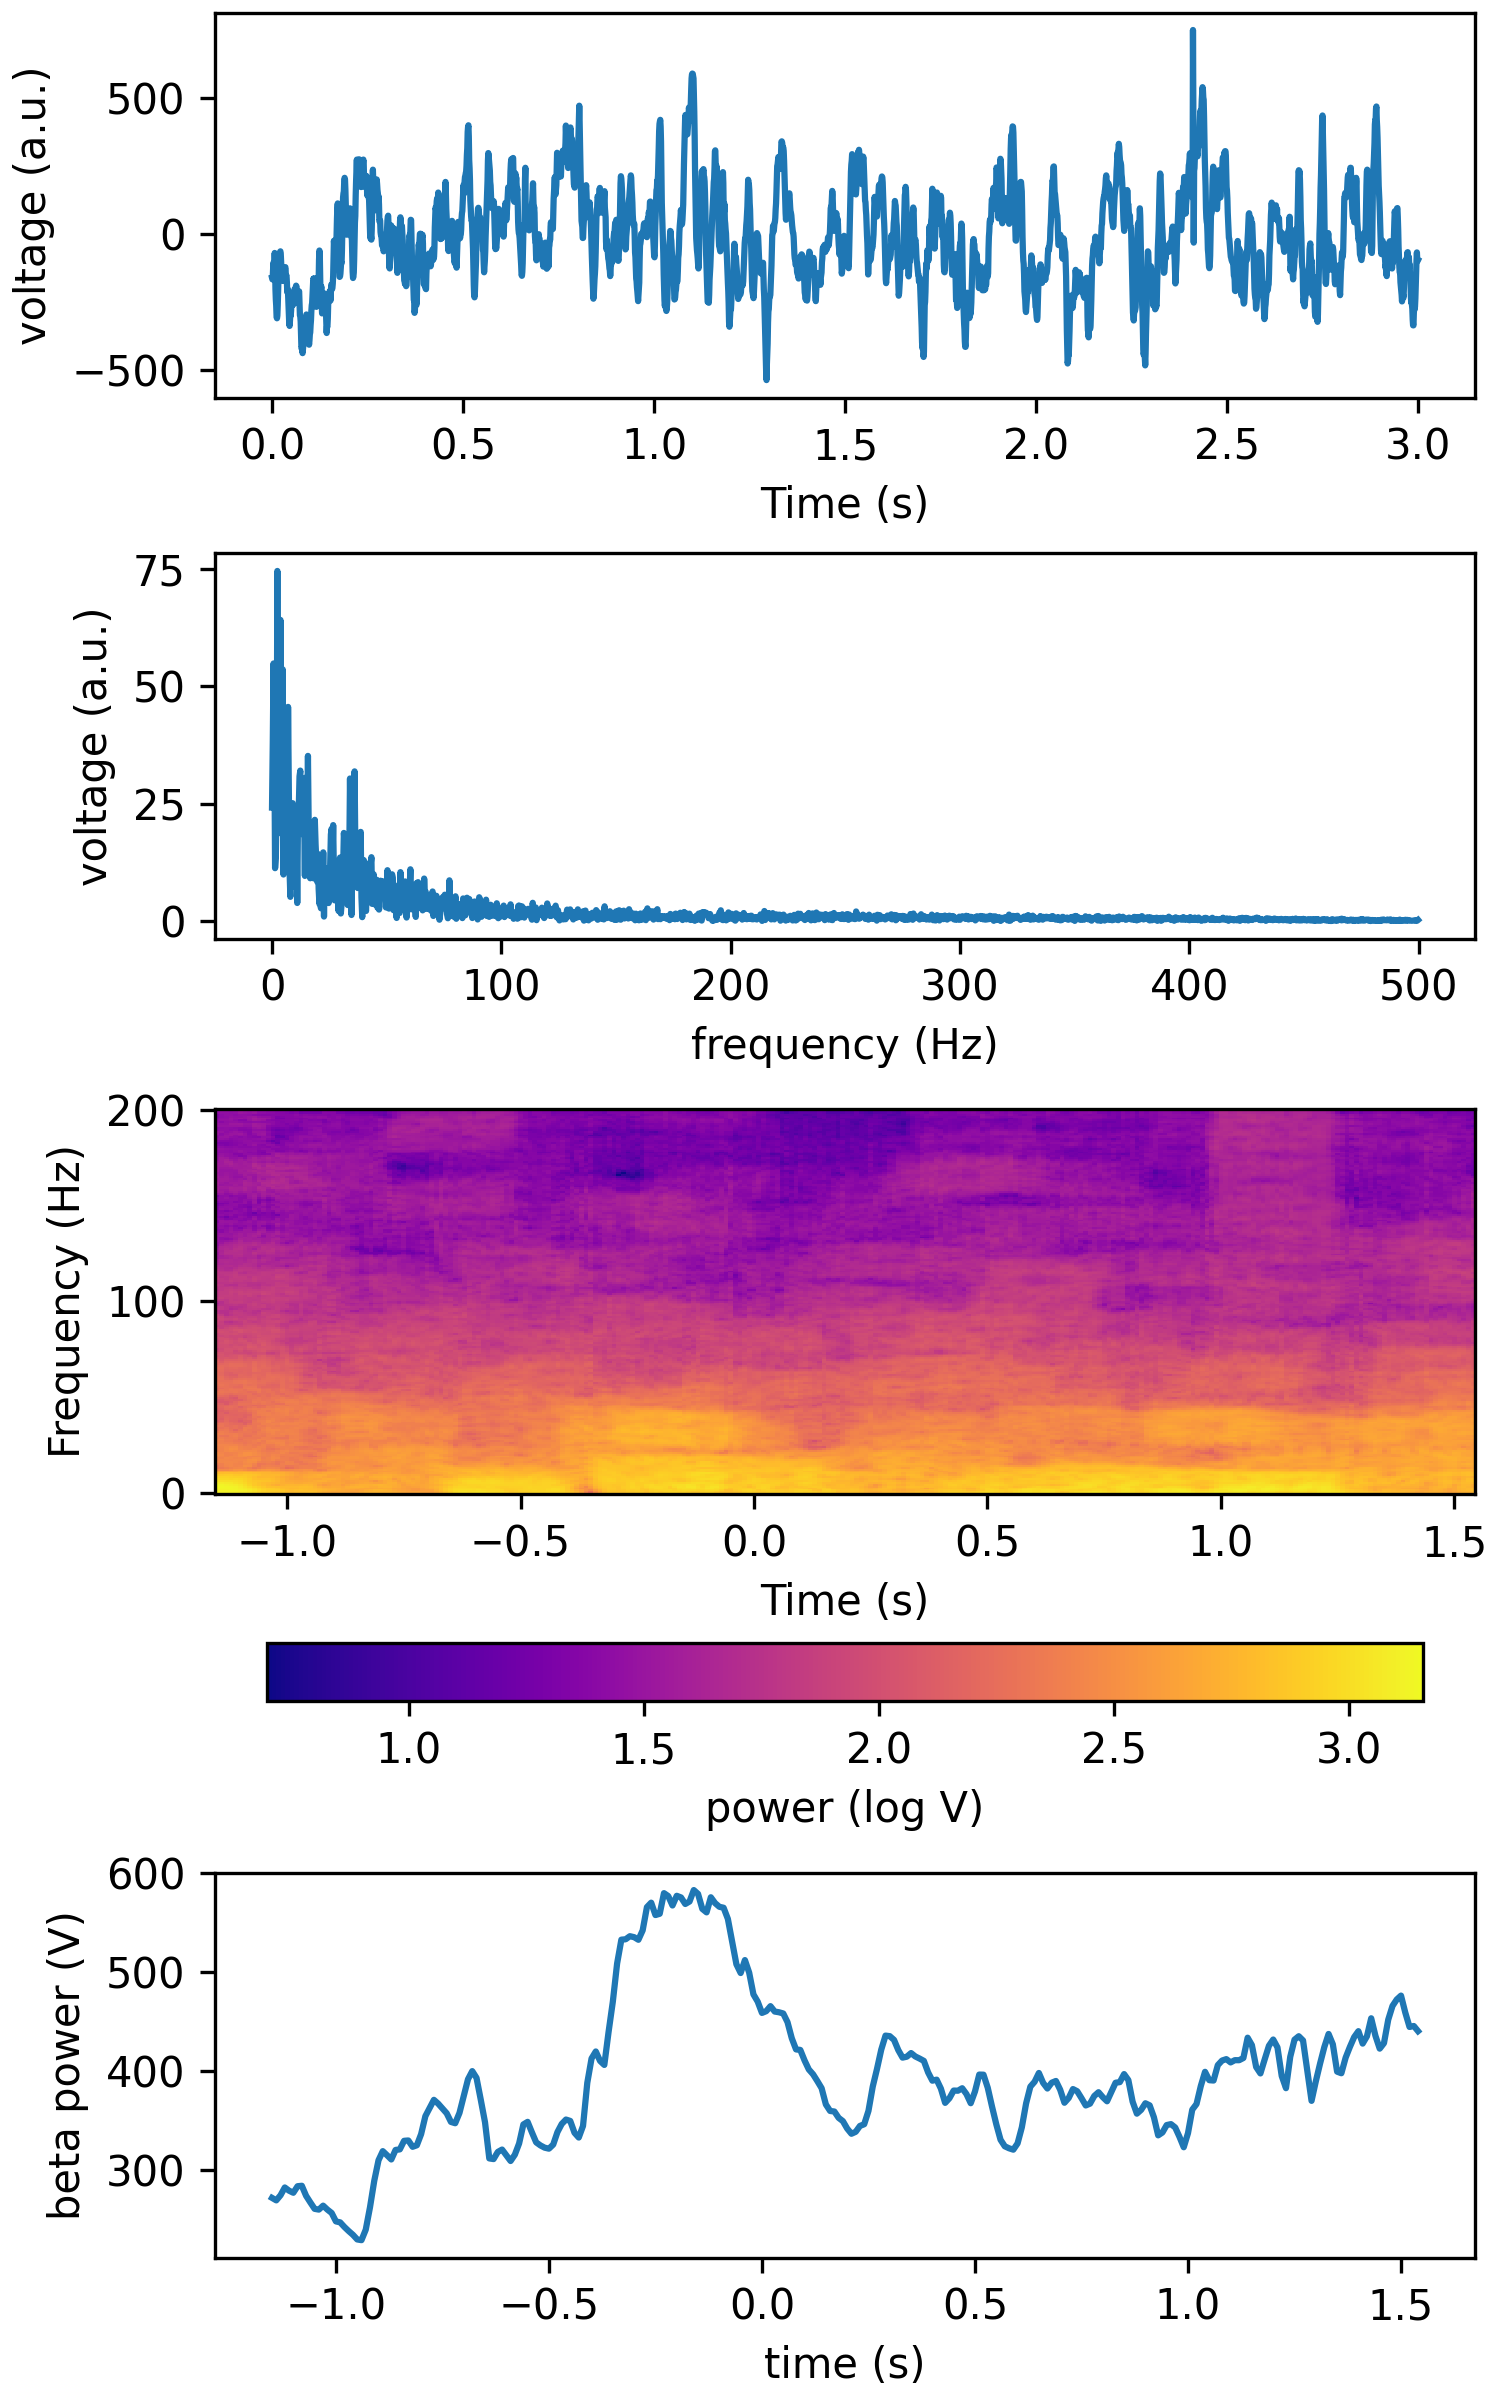
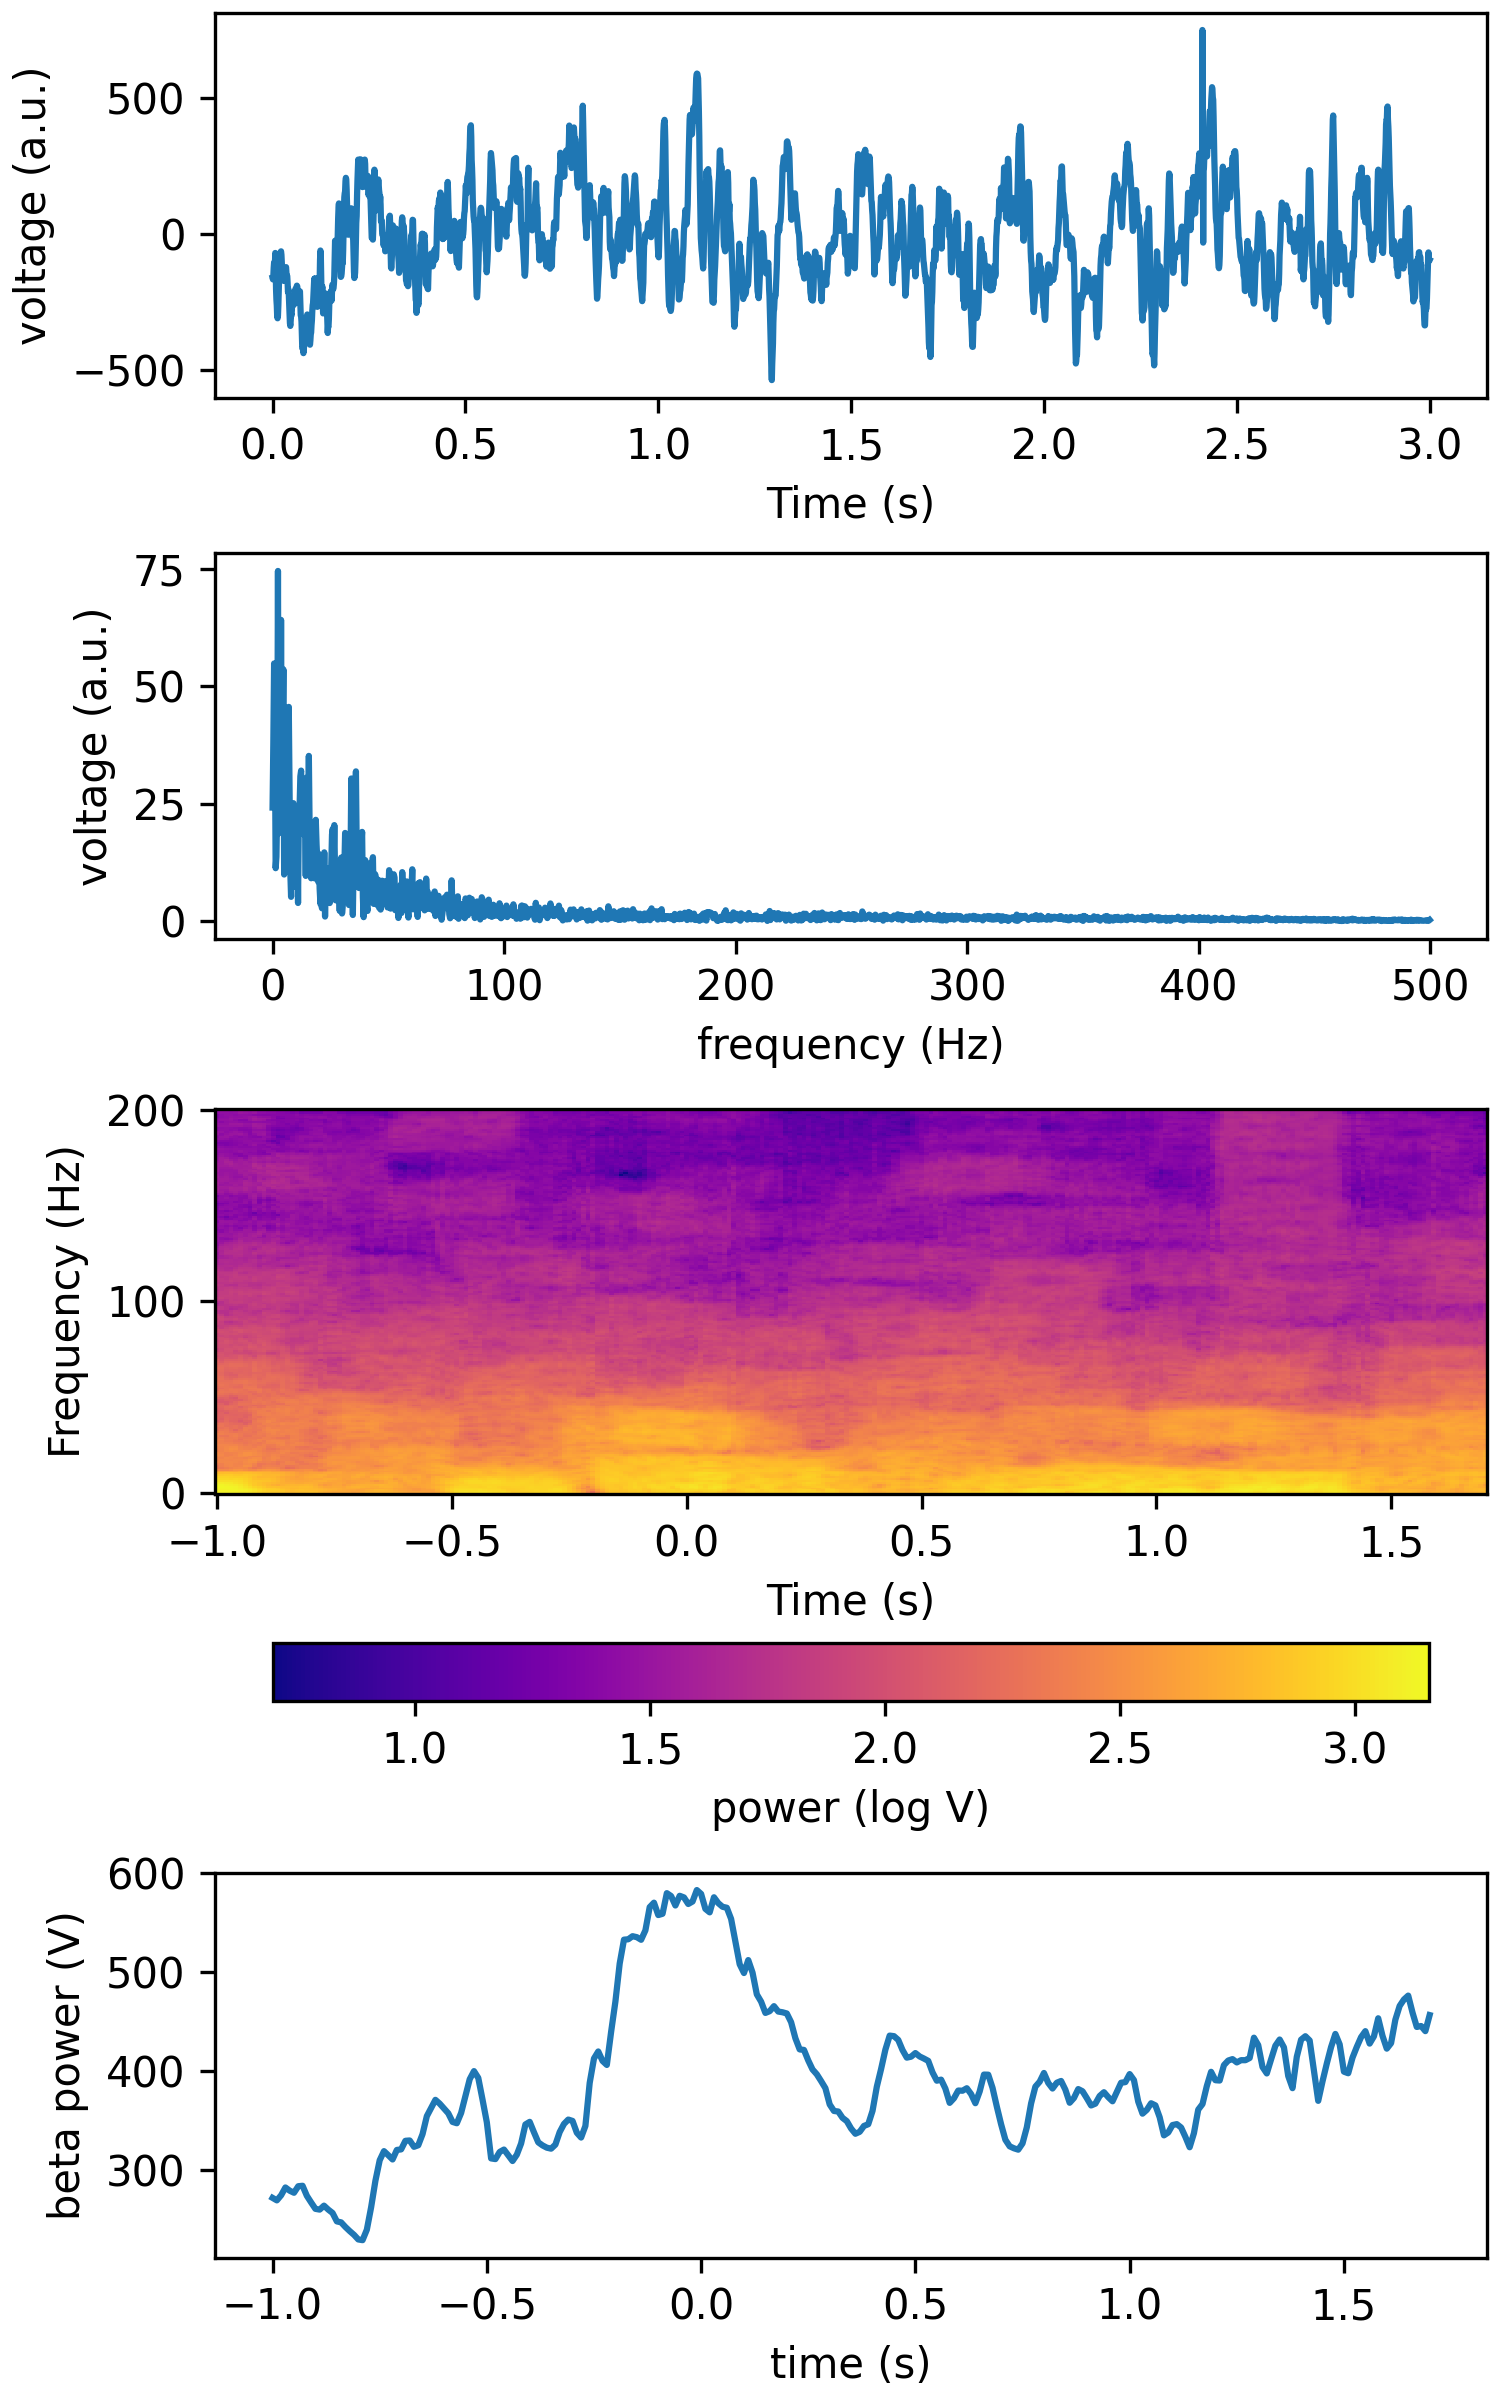
alignment fixes

diff --git a/tests/test_analysis.py b/tests/test_analysis.py
@@ -971,6 +971,38 @@ class HelperFunctions:
         ax[3].set_xlabel('time (s)')
         ax[3].set_ylabel('beta power (V)')
 
+    def test_tfr_alignment(tfr_fun):
+        '''
+        Tests TFR functions. Input a TFR function with the following signature:
+        tfr_fun(ts_data, samplerate) -> (frequency, time, spectrogram)
+        '''
+        fig, ax = plt.subplots(2,1,figsize=(5,8), layout='compressed')
+
+        # Make some test data with change at t=0
+        T = 5
+        fs = 1000
+        num_points = int(T*fs)
+        t = np.linspace(0,T,num_points)
+        erp = np.zeros((t.shape[0],))
+        erp = 1.5*np.sin(2*np.pi*100*t) # 100 Hz sine
+        time_before = T/2
+        erp[t>=time_before] = 2*np.sin(2*np.pi*50*t[t>=time_before]) # 50 Hz sine
+
+        # Plot time domain
+        aopy.visualization.plot_timeseries(erp, fs, ax=ax[0])
+        ax[0].set_ylabel('voltage (a.u.)')
+
+        # Compute and time spectrogram
+        t0 = time.perf_counter()
+        freqs, times, coef = tfr_fun(erp, fs)
+        dur = time.perf_counter() - t0
+
+        print(f"{repr(tfr_fun)} took {dur:.3f} seconds")
+
+        # Plot spectrogram
+        pcm = aopy.visualization.plot_tfr(abs(coef[:,:,0]), times - time_before, freqs, 'plasma', ax=ax[1])
+        fig.colorbar(pcm, label='power (log V)', orientation='horizontal', ax=ax[1])
+
 class SpectrumTests(unittest.TestCase):
 
     def setUp(self):
@@ -1064,6 +1096,21 @@ class SpectrumTests(unittest.TestCase):
         tfr_fun = lambda data, fs: aopy.analysis.calc_mt_tfr(data, n, p, k, fs, step=step, fk=fk, pad=2, ref=False, dtype='int16')
         HelperFunctions.test_tfr_lfp(tfr_fun)
         filename = 'tfr_mt_lfp.png'
+        savefig(docs_dir,filename)
+
+        # Test two alignments
+        tfr_fun = lambda data, fs: aopy.analysis.calc_mt_tfr(data, n, p, k, fs, step=step, fk=fk, pad=2, ref=False, dtype='int16')
+        HelperFunctions.test_tfr_alignment(tfr_fun)
+        plt.title('Align center')
+        filename = 'tfr_mt_alignment_center.png'
+        savefig(docs_dir,filename)
+
+        def tfr_fun(data, fs):
+            freqs, time, spec = aopy.analysis.calc_mt_tfr(data, n, p, k, fs, step=step, fk=fk, pad=2, ref=False, dtype='int16')
+            return freqs, time+n/2, spec
+        HelperFunctions.test_tfr_alignment(tfr_fun)
+        plt.title('Align right (plus n/2)')
+        filename = 'tfr_mt_alignment_right.png'
         savefig(docs_dir,filename)
 
     def test_tfr_mt_tsa(self):

diff --git a/aopy/analysis/base.py b/aopy/analysis/base.py
@@ -960,7 +960,7 @@ def calc_mt_tfr(ts_data, n, p, k, fs, step=None, fk=None, pad=2, ref=True, compl
     step_size = int(np.floor(step*fs)) # step size
     nf = np.max([256,pad*2**utils.nextpow2(win_size+1)]) # 0 padding for efficient computation in FFT
     nfk = np.floor(fk/fs*nf) # number of data points in frequency axis
-    nwin = int(np.floor((nt-win_size)/step_size)) # number of windows
+    nwin = 1 + int(np.floor((nt-win_size)/step_size)) # number of windows
     f = np.linspace(fk[0],fk[1],int(nfk[1] - nfk[0])) # frequency axis for spectrogram
 
     spec = np.zeros((int(nfk[1] - nfk[0]), nwin, nch), dtype=dtype)
@@ -980,7 +980,7 @@ def calc_mt_tfr(ts_data, n, p, k, fs, step=None, fk=None, pad=2, ref=True, compl
         else:
             spec[:,iwin,:] = np.mean(np.abs(fk_data[int(nfk[0]):int(nfk[1]), :, :]), axis=1).real
 
-    t = np.arange(nwin)*step - n/2 # Center of each window is time axis
+    t = np.arange(nwin)*step # Center of each window is time axis
     
     return f, t, spec
 
